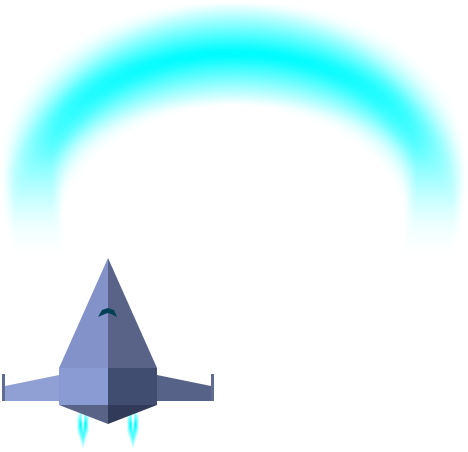
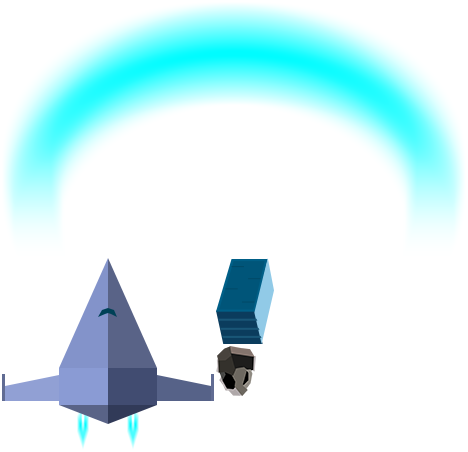
Added meteors

Changed region(s): [[0.4487, 0.5575, 0.5983, 0.8982]]

diff --git a/main.js b/main.js
@@ -73,6 +73,8 @@ cc.game.onStart = function(){
 
     cc.LoaderScene.preload(resourcePaths, function () {
       cc.director.runScene(new GameScene());
+
+      document.getElementById('gameCanvas').focus()
     }, this);
 };
 cc.game.run();
